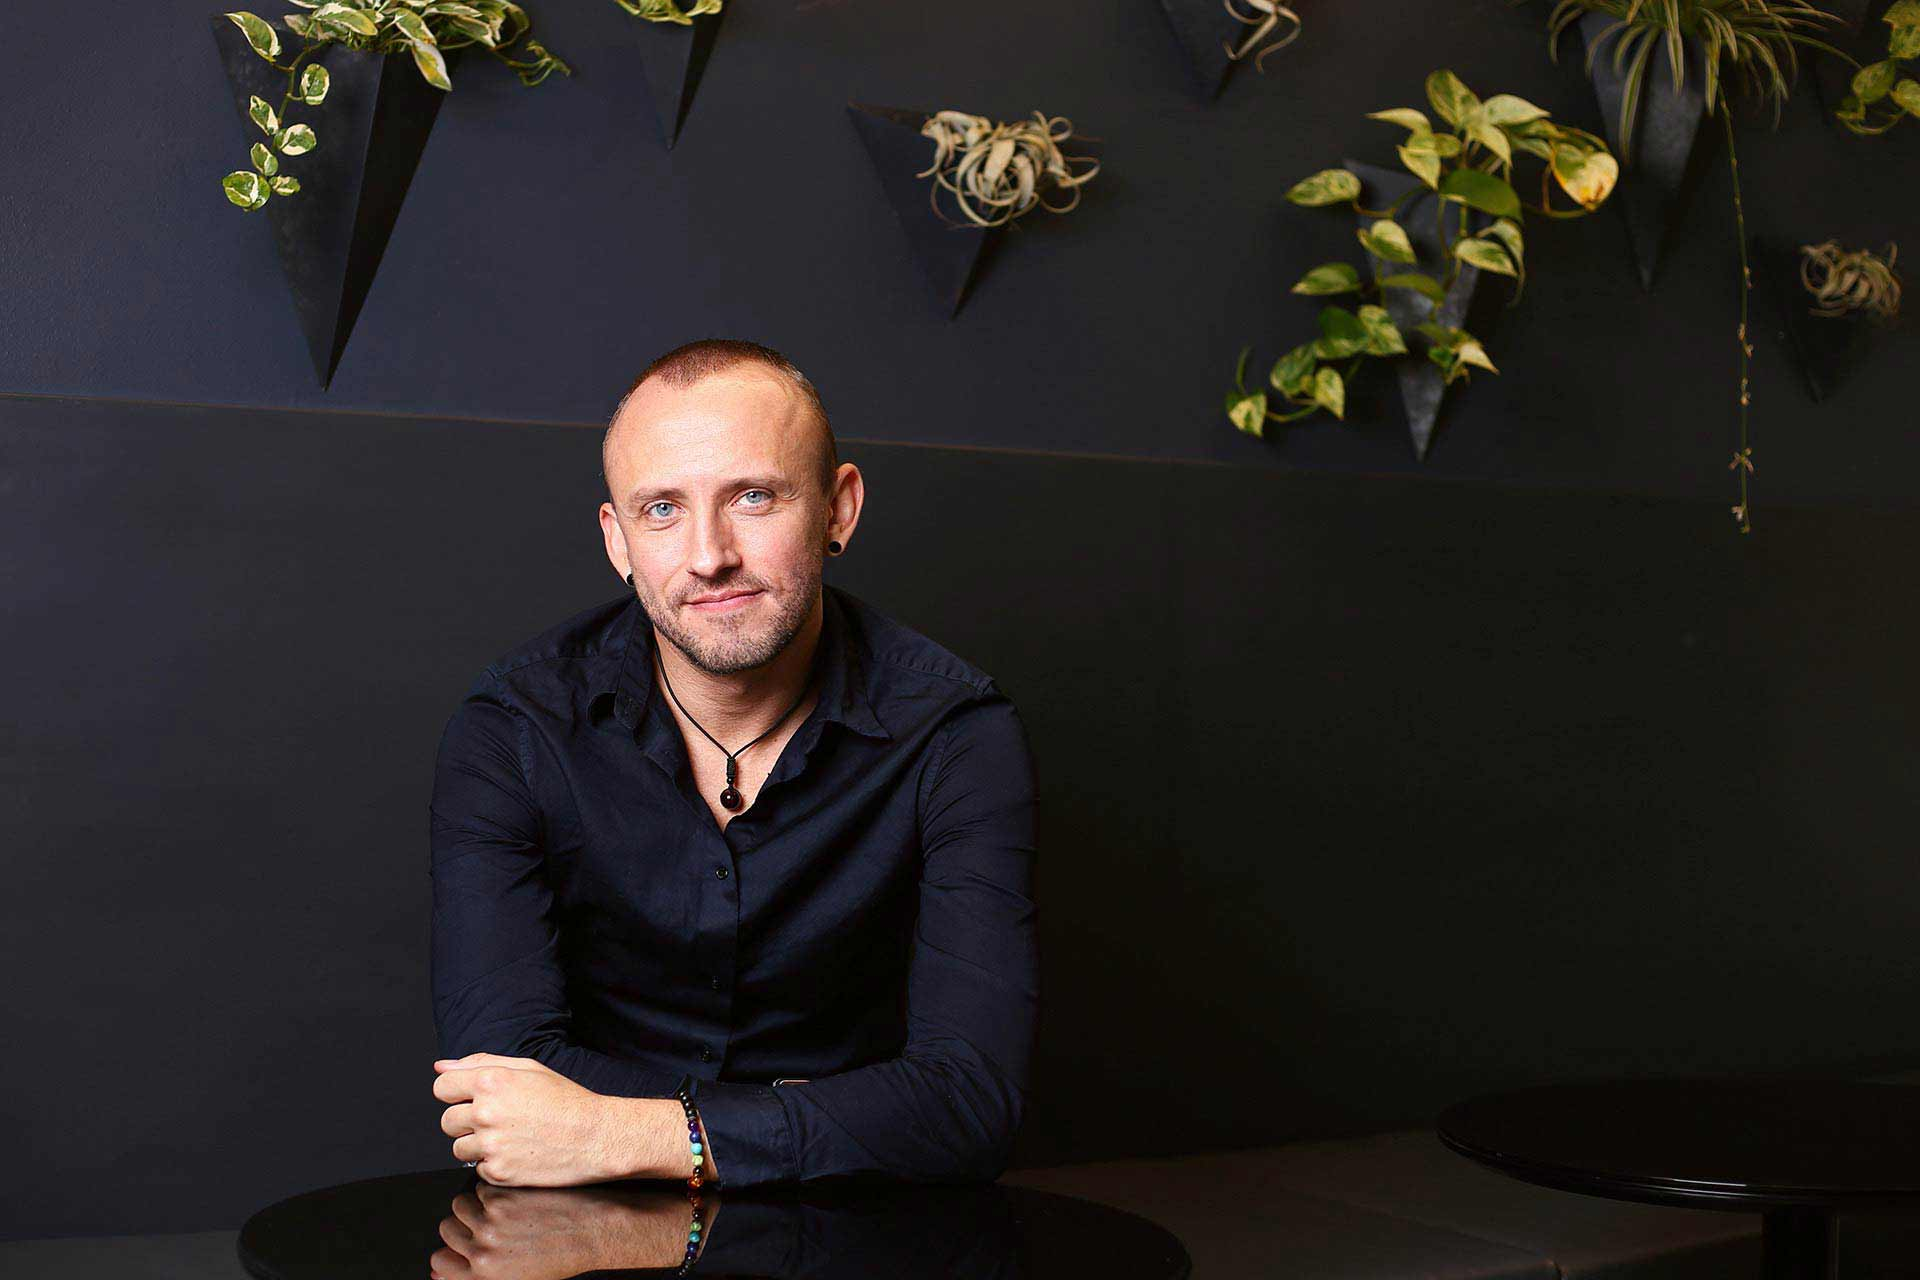
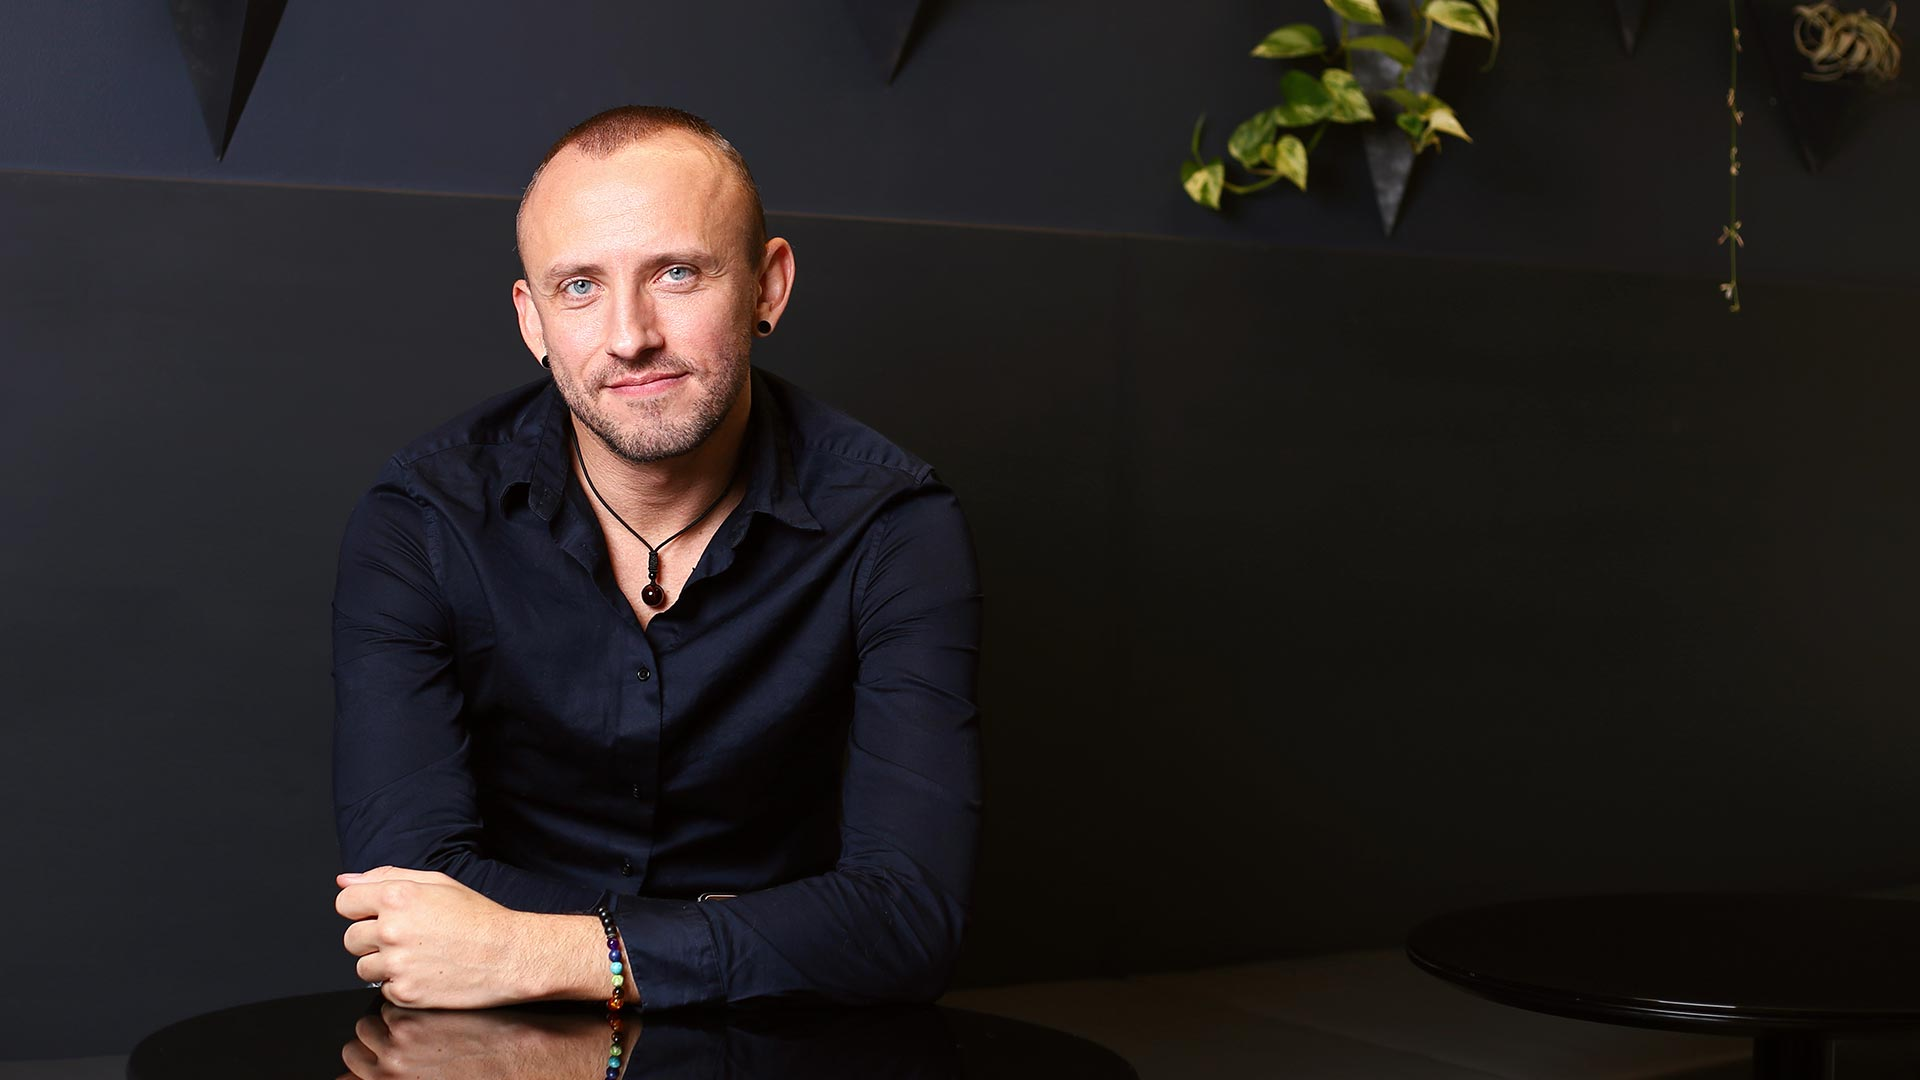
fixed sizing of images and updated dimensions of columns for mirroring

diff --git a/src/pages/SkinPage/SkinPage.tsx b/src/pages/SkinPage/SkinPage.tsx
@@ -30,6 +30,7 @@ export const SkinPage: React.FC = () => {
           </IonCol>
         </FullScreenRow>
         <FullScreenRow className="ion-justify-content-center ion-align-items-center ion-hide-lg-down ion-padding">
+          <IonCol>&nbsp;</IonCol>
           <IonCol className="ion-padding">
             <h3 className="ion-text-center">hi there, I'm</h3>
             <h1 className="ion-text-center ion-margin-bottom">Terence Waters</h1>
@@ -38,7 +39,6 @@ export const SkinPage: React.FC = () => {
               <IonButton color="primary">hire me!</IonButton>
             </div>
           </IonCol>
-          <IonCol>&nbsp;</IonCol>
         </FullScreenRow>
       </IonContent>
     </IonPage>

diff --git a/src/pages/SkinPage/SkinPage.scss b/src/pages/SkinPage/SkinPage.scss
@@ -1,5 +1,5 @@
 ion-content {
-  --background: url('../../assets/images/files/TerenceWCoverPhoto1425x950.jpg') no-repeat 70% center / cover;
+  --background: url('../../assets/images/files/TerenceWCoverPhoto1425x950.jpg') no-repeat 32% center / cover;
   position: relative;
 }
 
